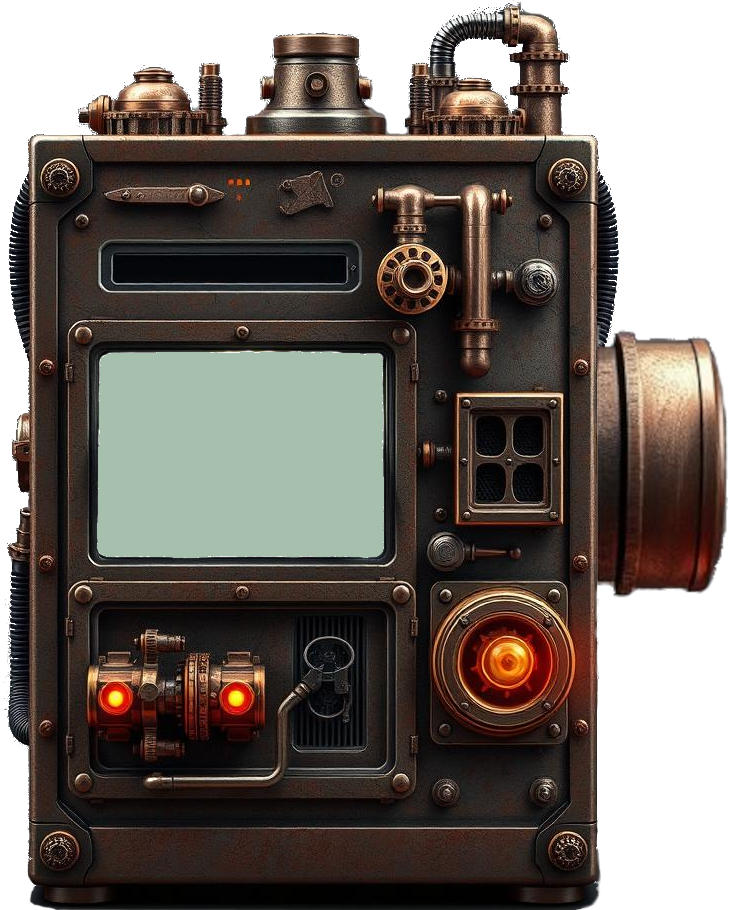
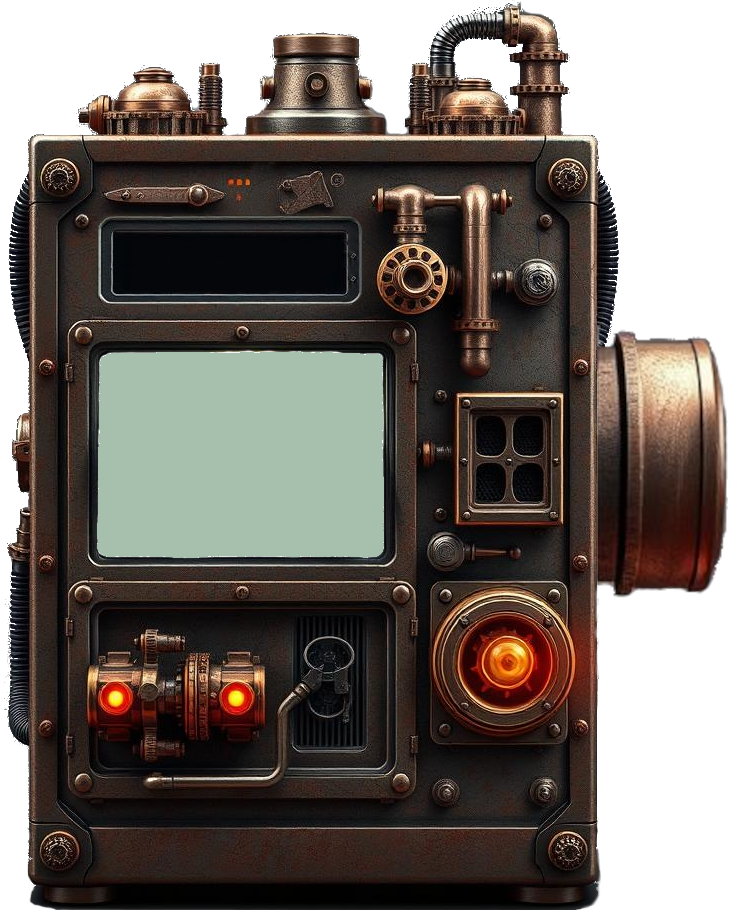
fix et agrandissement

Changed region(s): [[0.1202, 0.2154, 0.5109, 0.2769], [0.1202, 0.3077, 0.5109, 0.3385]]

diff --git a/src/style.css b/src/style.css
@@ -74,15 +74,21 @@
 
 .machine_display{
   position: relative;
-  top:284px;
-  left : 130px;
-  width: 240px;
+  top:255px;
+  left : 121px;
+  width: 260px;
+  height: 70px;
   font-family: "Fira Mono", serif;
   text-align: center;
   color: rgb(32, 189, 32);
-  font-size: 20px;
+  font-size: 30px;
   font-weight: 500;
-  text-shadow: 0 0 10px rgb(32, 255, 32); /* Lueur plus forte */
+  text-shadow: 0 0 18px rgb(32, 255, 32); /* Lueur plus forte */
+  text-overflow: clip;
+  text-wrap: balance;
+  word-break: break-all;
+  overflow: hidden;
+  align-content: center;
   }
 
 /* Style pour le conteneur du message */
@@ -104,7 +110,7 @@
 /* Style pour le texte du message qui défile */
 .message-text {
   padding-right: 100px;
-  font-size: 40px;
+  font-size: 100px;
   font-family: "Fira Mono", serif;
   letter-spacing: -1px;
 }

diff --git a/src/component/Missive.ts b/src/component/Missive.ts
@@ -76,8 +76,9 @@ export class Missive extends Base {
   public async close(): Promise<void> {
     if (this.state !== "open") return; // Si déjà fermé, ignorer
     this.state = "closing";
-    await this.moveTo({ x: this.position.x, y: this.position.y + 300 }, 400)
-    this.parentElement.innerHTML = ""
+    await this.moveTo({ x: this.position.x, y: this.position.y + 300 }, 400);
+    this.parentElement.innerHTML = "";
+    this.stopRealTimeUpdate();
     this.state = "closed";
   }
 
@@ -88,6 +89,6 @@ export class Missive extends Base {
     if (this.visual.maskPath.length === 0 && this.visual.texturePath.length === 0) {
       this.childElement.classList.add("missive-texture");  // Applique la classe CSS
     }
-    this.applyTextureFilter()
+    this.applyTextureFilter();
   }
 }

diff --git a/src/page/tchatOverlay.ts b/src/page/tchatOverlay.ts
@@ -79,6 +79,7 @@ export class ChatOverlay {
     this.machineDisplay.classList.add('machine_display')
     this.machineDisplay.innerText = ''
     this.fillbackSize()
+    machineComponent.stopRealTimeUpdate()
   }
 
   private fillbackSize() {
@@ -119,7 +120,6 @@ export class ChatOverlay {
 
       await this.showMessage(missive.parsedMessage.message)
       missive.close()
-      this.machineDisplay!.innerText = ''
     });
   }
 

diff --git a/src/page/FollowOverlay.ts b/src/page/FollowOverlay.ts
@@ -92,9 +92,6 @@ export class FollowOverlay {
     const spacing = 600;
     const numberOfSteams = Math.floor(pageHeight / spacing);
 
-    console.log({ numberOfSteams, pageHeight, spacing });
-
-
     for (let i = 0; i < numberOfSteams; i++) {
       const randomOffset = Math.random() * 100 - 50; // Random offset between -50 and 50
       const yPosition = (i + 1) * spacing + Math.round(randomOffset);

diff --git a/src/component/Component.ts b/src/component/Component.ts
@@ -19,7 +19,7 @@ export class Component {
   public position: Position;
   public size: Size;
   public zIndex: number;
-  public readonly UPDATEFRAME: number = 30;
+  public readonly UPDATEFRAME: number = 50;
   protected intervalId?: NodeJS.Timeout;
   protected visual: VisualConfig
   protected bgElement?: HTMLElement
